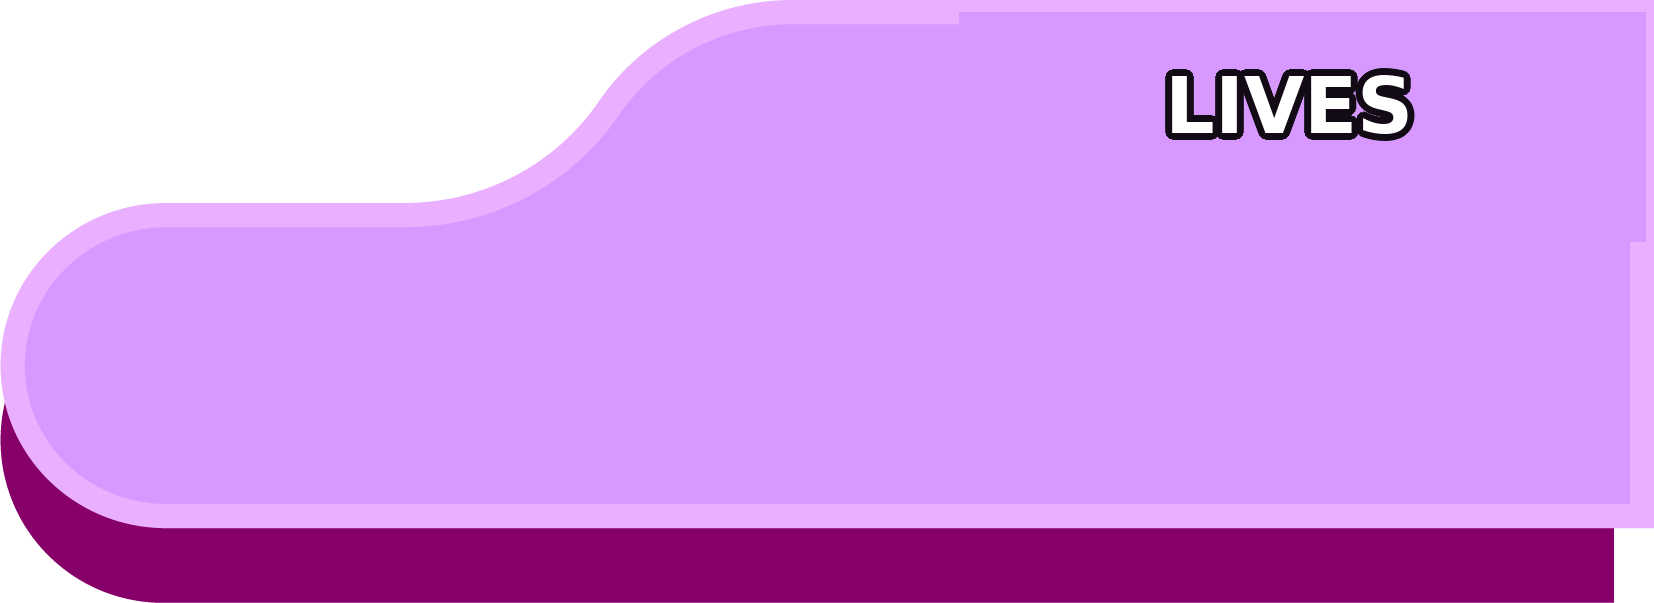
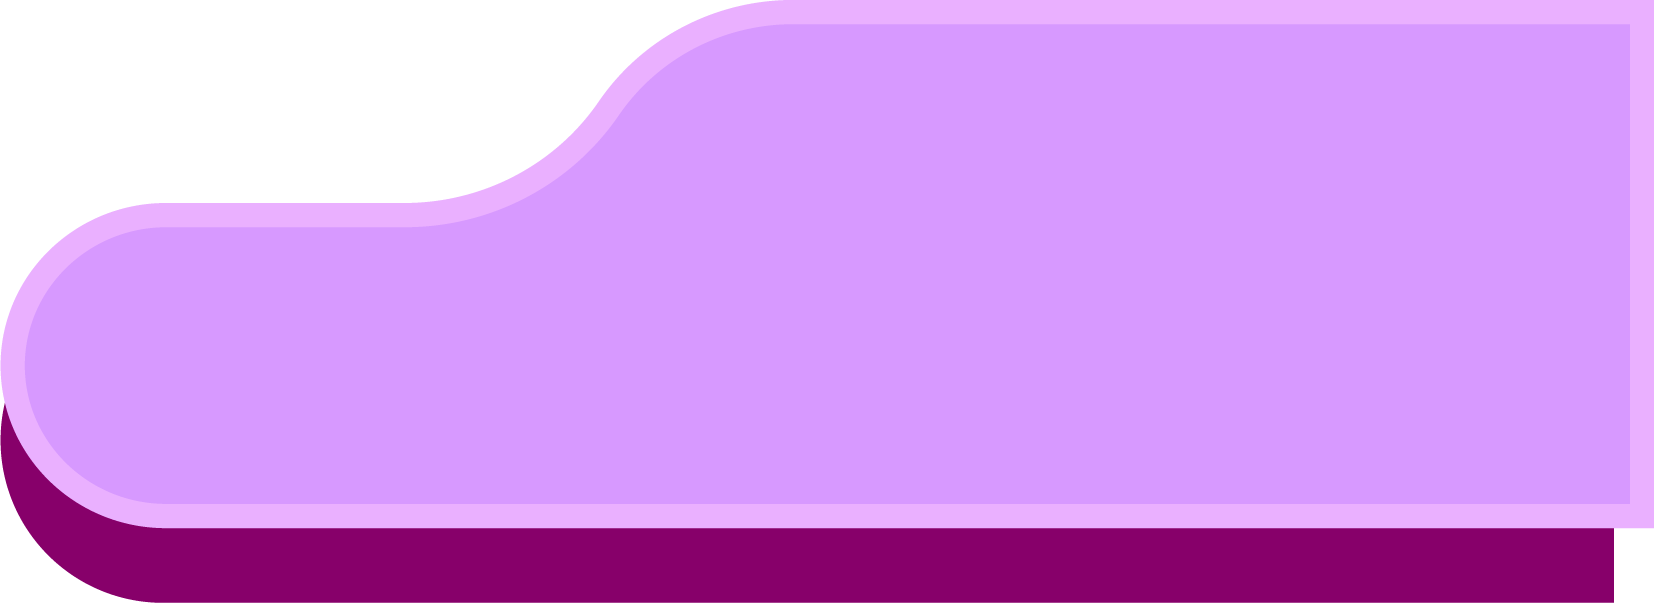
Render LIVES as DOM text matching SCORE/AMMO/TIME labels
Swap the baked-in LIVES panel art for the blank panel and draw the
label with the same Baloo/Fredoka outlined style as the other HUD titles.

Changed region(s): [[0.6784, 0.0896, 0.8634, 0.2388]]

diff --git a/index.html b/index.html
@@ -300,6 +300,21 @@
            0px  2px 0 #fff,
            2px  2px 0 #fff;
       }
+      .hud-lives-label {
+        right: 16%;
+        top: 6.5%;
+        color: #1a1018;
+        -webkit-text-stroke: 0;
+        text-shadow:
+          -2px -2px 0 #fff,
+           0px -2px 0 #fff,
+           2px -2px 0 #fff,
+          -2px  0px 0 #fff,
+           2px  0px 0 #fff,
+          -2px  2px 0 #fff,
+           0px  2px 0 #fff,
+           2px  2px 0 #fff;
+      }
 
       /* SCORE — flush left edge of screen */
       .hud-score {

diff --git a/src/ui/HUD.ts b/src/ui/HUD.ts
@@ -43,6 +43,7 @@ export class HUD {
       </div>`
         : `
       <div class="hud-panel hud-lives" aria-label="Lives">
+        <span class="hud-panel-label hud-lives-label">LIVES</span>
         <div class="hud-lives-value">${this.hearts(gameConfig.startLives)}</div>
       </div>`;
 
